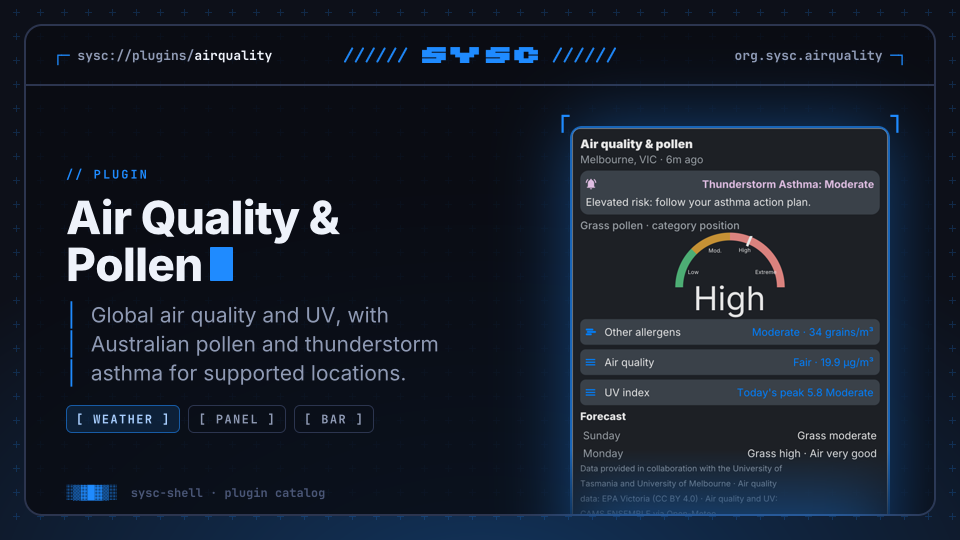
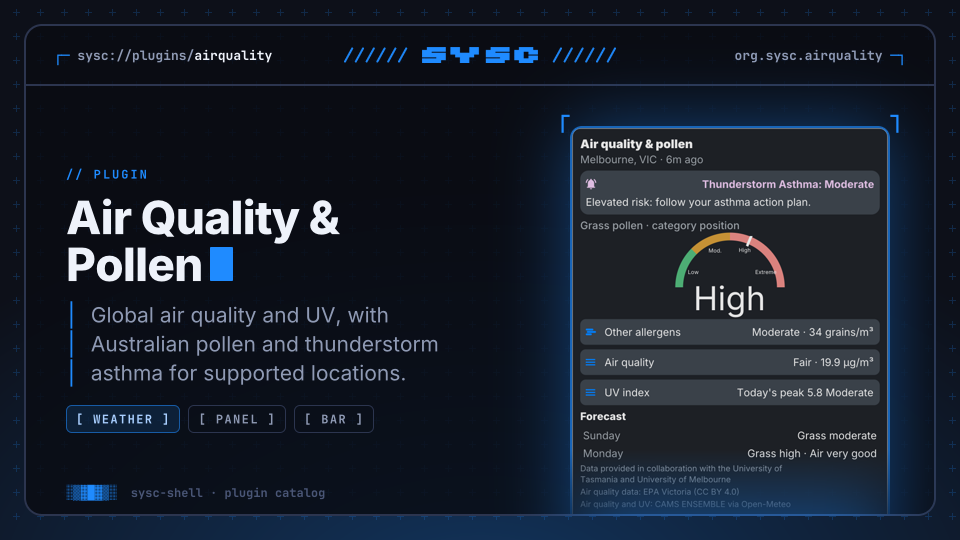
fix(airquality): improve panel readability

diff --git a/plugins/airquality/view.go b/plugins/airquality/view.go
@@ -290,25 +290,23 @@ func TooltipFor(report Report, width int) *v1.Node {
 		credits = wrapText(attribution, lineBytes)
 	}
 	remaining := tooltipReadingBudget(len(credits))
-	appendSummary := func(text string, tone v1.Tone) {
+	appendSummary := func(text string) {
 		parts := wrapText(text, lineBytes)
 		if len(parts) > remaining {
 			return
 		}
 		for _, part := range parts {
-			children = append(children, &v1.Node{Kind: v1.KindText, Text: part, Tone: tone})
+			children = append(children, &v1.Node{Kind: v1.KindText, Text: part})
 		}
 		remaining -= len(parts)
 	}
 	if report.Snapshot.Alert != nil {
 		alert := report.Snapshot.Alert
-		label, tone := "Storm: "+alert.Level.Name, v1.ToneWarning
+		label := "Storm: " + alert.Level.Name
 		if report.Stale {
-			label, tone = "Last storm: "+alert.Level.Name, v1.ToneSubtle
-		} else if alert.Level.Severity >= SeverityHigh {
-			tone = v1.ToneError
+			label = "Last storm: " + alert.Level.Name
 		}
-		appendSummary(label, tone)
+		appendSummary(label)
 	}
 	pollen := MeasureGrass
 	if _, ok := report.Snapshot.Measure(pollen); !ok {
@@ -330,7 +328,7 @@ func TooltipFor(report Report, width int) *v1.Node {
 			lines = []string{strings.Join(lines, " · ")}
 		}
 		for _, line := range lines {
-			appendSummary(line, toneFor(m.Level.Severity))
+			appendSummary(line)
 		}
 	}
 	for _, line := range credits {
@@ -477,14 +475,7 @@ func PanelFor(report Report, protocolMinor int) *v1.Node {
 		children = append(children, section)
 	}
 	if report.Snapshot.Attribution != "" {
-		// Attribution is a licence condition, so it must be readable in full.
-		// A text node has one line and is ellipsised past the row width, so the
-		// string is wrapped here rather than handed over whole.
-		for _, line := range wrapText(report.Snapshot.Attribution, attributionBytes) {
-			children = append(children, &v1.Node{
-				Kind: v1.KindText, Text: line, Tone: v1.ToneSubtle, Size: "caption",
-			})
-		}
+		children = append(children, attributionNode(report.Snapshot.Attribution))
 	}
 	return panelRoot(children)
 }
@@ -493,6 +484,26 @@ func PanelFor(report Report, protocolMinor int) *v1.Node {
 // eight bytes wide per byte of content regardless of size token, so the budget
 // is the panel's content width in bytes, not in pixels.
 const attributionBytes = (PanelWidth - 2*panelPad) / 8
+
+// attributionNode wraps each provider credit independently, so a source's
+// label stays with its name. The full text remains visible, with compact line
+// spacing because legal credits belong below the forecast rather than beside
+// the current readings.
+func attributionNode(attribution string) *v1.Node {
+	var sources []*v1.Node
+	for _, source := range strings.Split(attribution, " · ") {
+		var lines []*v1.Node
+		for _, line := range wrapText(source, attributionBytes) {
+			lines = append(lines, &v1.Node{
+				Kind: v1.KindText, Text: line, Tone: v1.ToneSubtle, Size: "caption",
+			})
+		}
+		if len(lines) > 0 {
+			sources = append(sources, &v1.Node{Kind: v1.KindColumn, Children: lines})
+		}
+	}
+	return &v1.Node{Kind: v1.KindColumn, Gap: 2, Children: sources}
+}
 
 // wrapText breaks s on spaces into lines of at most budget bytes. A word longer
 // than the budget is emitted on its own line rather than split, because a URL or
@@ -568,10 +579,10 @@ func measureRow(m Measure) *v1.Node {
 		Gap: measureRowGap,
 		Children: []*v1.Node{
 			{Kind: v1.KindRow, Gap: measureRowGap, Children: []*v1.Node{
-				{Kind: v1.KindIcon, Icon: MeasureIcon(m.Name), Tone: toneFor(m.Level.Severity)},
+				{Kind: v1.KindIcon, Icon: MeasureIcon(m.Name), Tone: iconToneFor(m.Level.Severity)},
 				{Kind: v1.KindText, Text: Title(m.Name)},
 			}},
-			{Kind: v1.KindText, Text: value, Tone: toneFor(m.Level.Severity)},
+			{Kind: v1.KindText, Text: value},
 		},
 	}
 }
@@ -771,7 +782,7 @@ func unitsLabel(units string) string {
 	}
 }
 
-func toneFor(s Severity) v1.Tone {
+func iconToneFor(s Severity) v1.Tone {
 	switch s {
 	case SeverityHigh:
 		return v1.ToneError
@@ -849,9 +860,7 @@ func breakdownRow(m Measure) *v1.Node {
 		} else if part.Level.Known() {
 			label += " " + part.Level.Name
 		}
-		children = append(children, &v1.Node{
-			Kind: v1.KindText, Text: label, Tone: toneFor(part.Level.Severity), Size: "caption",
-		})
+		children = append(children, &v1.Node{Kind: v1.KindText, Text: label, Size: "caption"})
 	}
 	if len(children) == 0 {
 		return nil

diff --git a/plugins/airquality/view_test.go b/plugins/airquality/view_test.go
@@ -699,6 +699,32 @@ func TestMeasureRowPinsTheReadingToTheRowEnd(t *testing.T) {
 	if got := row.Children[1].Text; got != "Fair · 19.9 µg/m³" {
 		t.Errorf("trailing text = %q", got)
 	}
+	if got := row.Children[1].Tone; got != v1.ToneNormal {
+		t.Errorf("reading tone = %q, want normal foreground for contrast", got)
+	}
+	if got := row.Children[0].Children[0].Tone; got != v1.ToneAccent {
+		t.Errorf("severity icon tone = %q, want accent", got)
+	}
+}
+
+func TestTooltipReadingsUseNormalForeground(t *testing.T) {
+	root := Tooltip(sampleReport())
+	text := nodeText(root)
+	for _, want := range []string{"Storm: Moderate", "Grass: High", "Air: Fair 19.9 µg/m³"} {
+		if !strings.Contains(text, want) {
+			t.Errorf("tooltip text %q does not include %q", text, want)
+		}
+	}
+	var visit func(*v1.Node)
+	visit = func(n *v1.Node) {
+		if n.Kind == v1.KindText && n.Tone != v1.ToneNormal && n.Tone != v1.ToneSubtle {
+			t.Errorf("tooltip text %q tone = %q, want normal foreground", n.Text, n.Tone)
+		}
+		for _, child := range n.Children {
+			visit(child)
+		}
+	}
+	visit(root)
 }
 
 func TestForecastRowUsesTheDayItNames(t *testing.T) {
@@ -764,6 +790,9 @@ func TestBreakdownKeepsRealConstituents(t *testing.T) {
 	want := "PM2.5 19.9 · PM10 7.6"
 	if got := strings.Join(texts, " "); got != want {
 		t.Errorf("strip = %q, want %q", got, want)
+	}
+	if row.Children[0].Tone != v1.ToneNormal || row.Children[2].Tone != v1.ToneNormal {
+		t.Errorf("breakdown tones = %q and %q, want normal foreground", row.Children[0].Tone, row.Children[2].Tone)
 	}
 }
 
@@ -920,19 +949,24 @@ func TestWrapTextKeepsAShortAttributionOnOneLine(t *testing.T) {
 	}
 }
 
-func TestPanelShowsEveryAttributionLine(t *testing.T) {
+func TestPanelGroupsAndShowsEveryAttributionSource(t *testing.T) {
 	report := sampleReport()
 	report.Snapshot.Attribution = "Air quality data: EPA Victoria (CC BY 4.0) · Air quality and UV: CAMS ENSEMBLE via Open-Meteo"
-	var shown []string
-	for _, child := range PanelFor(report, 24).Children {
-		if child.Kind == v1.KindText {
-			shown = append(shown, child.Text)
-		}
+	root := PanelFor(report, 24)
+	credits := root.Children[len(root.Children)-1]
+	if credits.Kind != v1.KindColumn || len(credits.Children) != 2 {
+		t.Fatalf("source credits = %+v, want two grouped sources", credits)
 	}
-	joined := strings.Join(shown, " ")
+	if got := credits.Children[0].Children[0].Text; got != "Air quality data: EPA Victoria (CC BY 4.0)" {
+		t.Errorf("first source = %q", got)
+	}
+	if got := credits.Children[1].Children[0].Text; got != "Air quality and UV: CAMS ENSEMBLE via Open-Meteo" {
+		t.Errorf("second source = %q", got)
+	}
+	joined := nodeText(credits)
 	for _, want := range []string{"EPA Victoria", "CAMS ENSEMBLE", "Open-Meteo"} {
 		if !strings.Contains(joined, want) {
-			t.Errorf("panel attribution is missing %q: %v", want, shown)
+			t.Errorf("panel attribution is missing %q: %q", want, joined)
 		}
 	}
 }

diff --git a/plugins/airquality/openmeteo.go b/plugins/airquality/openmeteo.go
@@ -8,7 +8,6 @@ import (
 	"net/http"
 	"net/url"
 	"strconv"
-	"strings"
 	"time"
 )
 
@@ -352,17 +351,6 @@ func formatUV(uv float64) string {
 		return strconv.FormatFloat(rounded, 'f', 0, 64)
 	}
 	return strconv.FormatFloat(rounded, 'f', 1, 64)
-}
-
-// uvPeakText is the panel label for a UV measure.
-func uvPeakText(m Measure) string {
-	if m.Metric == nil {
-		return m.Level.Name
-	}
-	if strings.EqualFold(m.Metric.Subcat, "now") {
-		return formatUV(m.Metric.Value) + " now"
-	}
-	return "peak " + formatUV(m.Metric.Value)
 }
 
 // uvDialMax is the top of the UV dial's scale. The published bands run to 11

diff --git a/plugins/airquality/metrictree.go b/plugins/airquality/metrictree.go
@@ -67,10 +67,7 @@ func ParseTree(raw []byte) (*Tree, error) {
 			for metric, scale := range metrics {
 				classes := make([]Class, 0, len(scale.Classes))
 				for _, c := range scale.Classes {
-					classes = append(classes, Class{
-						Name: c.Name, LowerBound: c.LowerBound,
-						UpperBound: c.UpperBound, WarnLevel: c.WarnLevel,
-					})
+					classes = append(classes, Class(c))
 				}
 				// Sort rather than trust wire order: the Air Quality branch
 				// publishes NO2 with a zero-width "Very Good" band first, and
